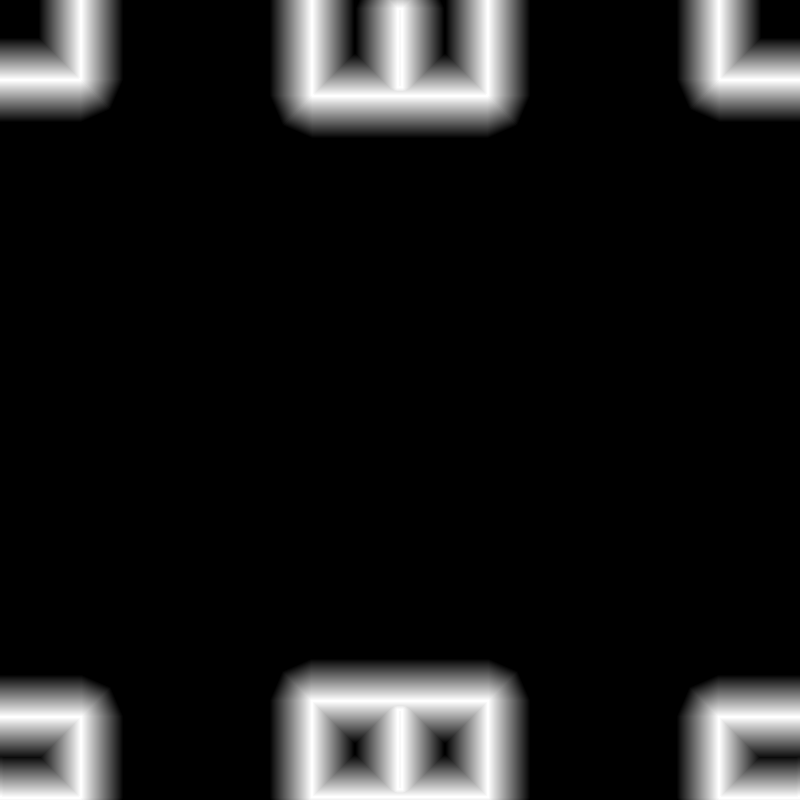
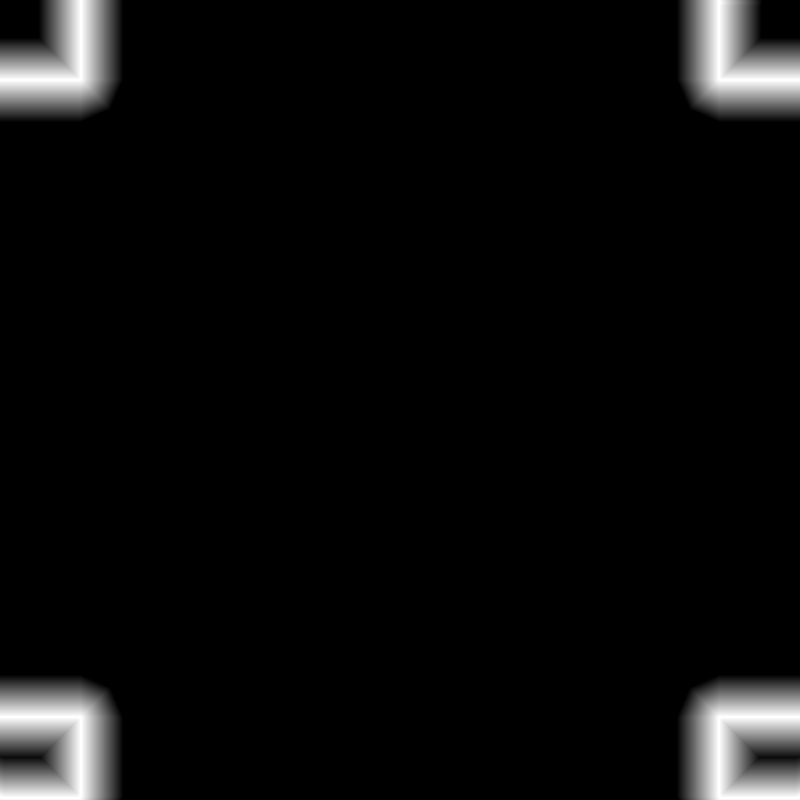
修复定位和特征点窗口显示问题

Changed region(s): [[0.3438, 0.8125, 0.6562, 1.0], [0.3438, 0.0, 0.6562, 0.1875]]

diff --git a/robocon25_sim/src/cmd_vel_model_plugin.cpp b/robocon25_sim/src/cmd_vel_model_plugin.cpp
@@ -1,0 +1,146 @@
+#include <gazebo/common/Plugin.hh>
+#include <gazebo/common/Time.hh>
+#include <gazebo/common/Event.hh>
+#include <gazebo/common/Events.hh>
+#include <gazebo/physics/Model.hh>
+#include <gazebo/physics/World.hh>
+#include <gazebo_ros/node.hpp>
+#include <geometry_msgs/msg/twist.hpp>
+#include <ignition/math/Pose3.hh>
+#include <nav_msgs/msg/odometry.hpp>
+#include <rclcpp/rclcpp.hpp>
+#include <tf2/LinearMath/Quaternion.h>
+
+#include <algorithm>
+#include <cmath>
+#include <mutex>
+
+namespace robocon25_sim
+{
+
+class CmdVelModelPlugin : public gazebo::ModelPlugin
+{
+public:
+  void Load(gazebo::physics::ModelPtr model, sdf::ElementPtr sdf) override
+  {
+    model_ = model;
+    node_ = gazebo_ros::Node::Get(sdf);
+
+    if (sdf->HasElement("cmd_timeout")) {
+      cmd_timeout_ = sdf->Get<double>("cmd_timeout");
+    }
+    if (sdf->HasElement("publish_rate")) {
+      publish_period_ = 1.0 / std::max(1.0, sdf->Get<double>("publish_rate"));
+    }
+
+    pose_ = model_->WorldPose();
+    last_update_time_ = model_->GetWorld()->SimTime();
+    last_cmd_time_ = last_update_time_;
+    last_publish_time_ = last_update_time_;
+
+    cmd_sub_ = node_->create_subscription<geometry_msgs::msg::Twist>(
+      "cmd_vel", rclcpp::QoS(10),
+      [this](geometry_msgs::msg::Twist::SharedPtr msg)
+      {
+        std::lock_guard<std::mutex> lock(mutex_);
+        cmd_ = *msg;
+        last_cmd_time_ = model_->GetWorld()->SimTime();
+      });
+
+    odom_pub_ = node_->create_publisher<nav_msgs::msg::Odometry>("odom", rclcpp::QoS(10));
+
+    update_connection_ = gazebo::event::Events::ConnectWorldUpdateBegin(
+      std::bind(&CmdVelModelPlugin::OnUpdate, this));
+  }
+
+private:
+  void OnUpdate()
+  {
+    const auto now = model_->GetWorld()->SimTime();
+    const double dt = (now - last_update_time_).Double();
+    last_update_time_ = now;
+    if (dt <= 0.0) {
+      return;
+    }
+
+    geometry_msgs::msg::Twist cmd;
+    {
+      std::lock_guard<std::mutex> lock(mutex_);
+      cmd = cmd_;
+      if ((now - last_cmd_time_).Double() > cmd_timeout_) {
+        cmd = geometry_msgs::msg::Twist();
+      }
+    }
+
+    double roll = 0.0;
+    double pitch = 0.0;
+    double yaw = pose_.Rot().Yaw();
+
+    yaw += cmd.angular.z * dt;
+    const double cos_yaw = std::cos(yaw);
+    const double sin_yaw = std::sin(yaw);
+    const double world_vx = cmd.linear.x * cos_yaw - cmd.linear.y * sin_yaw;
+    const double world_vy = cmd.linear.x * sin_yaw + cmd.linear.y * cos_yaw;
+
+    pose_.Pos().X() += world_vx * dt;
+    pose_.Pos().Y() += world_vy * dt;
+    pose_.Rot() = ignition::math::Quaterniond(roll, pitch, yaw);
+
+    model_->SetWorldPose(pose_);
+    model_->SetLinearVel(ignition::math::Vector3d(world_vx, world_vy, 0.0));
+    model_->SetAngularVel(ignition::math::Vector3d(0.0, 0.0, cmd.angular.z));
+
+    if ((now - last_publish_time_).Double() >= publish_period_) {
+      PublishOdom(now, cmd, world_vx, world_vy, yaw);
+      last_publish_time_ = now;
+    }
+  }
+
+  void PublishOdom(
+    const gazebo::common::Time & stamp,
+    const geometry_msgs::msg::Twist & cmd,
+    double world_vx,
+    double world_vy,
+    double yaw)
+  {
+    nav_msgs::msg::Odometry odom;
+    odom.header.stamp.sec = stamp.sec;
+    odom.header.stamp.nanosec = stamp.nsec;
+    odom.header.frame_id = "odom";
+    odom.child_frame_id = "base_footprint";
+    odom.pose.pose.position.x = pose_.Pos().X();
+    odom.pose.pose.position.y = pose_.Pos().Y();
+    odom.pose.pose.position.z = pose_.Pos().Z();
+
+    tf2::Quaternion q;
+    q.setRPY(0.0, 0.0, yaw);
+    odom.pose.pose.orientation.x = q.x();
+    odom.pose.pose.orientation.y = q.y();
+    odom.pose.pose.orientation.z = q.z();
+    odom.pose.pose.orientation.w = q.w();
+
+    odom.twist.twist.linear.x = cmd.linear.x;
+    odom.twist.twist.linear.y = cmd.linear.y;
+    odom.twist.twist.angular.z = cmd.angular.z;
+    odom_pub_->publish(odom);
+  }
+
+  gazebo::physics::ModelPtr model_;
+  gazebo_ros::Node::SharedPtr node_;
+  gazebo::event::ConnectionPtr update_connection_;
+  rclcpp::Subscription<geometry_msgs::msg::Twist>::SharedPtr cmd_sub_;
+  rclcpp::Publisher<nav_msgs::msg::Odometry>::SharedPtr odom_pub_;
+
+  std::mutex mutex_;
+  geometry_msgs::msg::Twist cmd_;
+  ignition::math::Pose3d pose_;
+  gazebo::common::Time last_update_time_;
+  gazebo::common::Time last_cmd_time_;
+  gazebo::common::Time last_publish_time_;
+  double cmd_timeout_ = 0.25;
+  double publish_period_ = 1.0 / 30.0;
+};
+
+GZ_REGISTER_MODEL_PLUGIN(CmdVelModelPlugin)
+
+}  // namespace robocon25_sim

diff --git a/robocon_localization/src/loc_sidelines.cpp b/robocon_localization/src/loc_sidelines.cpp
@@ -79,25 +79,52 @@ void imageCallback(const sensor_msgs::msg::Image::ConstSharedPtr& msg)
     Mat image_hsv;
     cv::cvtColor(image_raw, image_hsv, COLOR_BGR2HSV);
 
-    Mat image_white;
-    inRange(image_hsv, Scalar(0, 35, 30), Scalar(180, 255, 255), image_white);
+    Mat mask_red1, mask_red2;
+    // 场地图红色 RGB(250,74,59)，OpenCV HSV 约为 (2,195,250)。
+    inRange(image_hsv, Scalar(0, 80, 80), Scalar(12, 255, 255), mask_red1);
+    inRange(image_hsv, Scalar(170, 80, 80), Scalar(180, 255, 255), mask_red2);
+    image_red = mask_red1 | mask_red2;  // 合并两个红色范围
+
+    // 场地图浅蓝 RGB(92,169,221)，OpenCV HSV 约为 (102,149,221)。
+    // 深色紫/蓝边 Hue 接近但更暗且饱和度更高，所以用亮度和饱和度排除它。
+    inRange(image_hsv, Scalar(96, 70, 170), Scalar(110, 200, 255), image_blue);
+
+    // 场地图洋红 RGB(255,25,255)，OpenCV HSV 约为 (150,230,255)。
+    Mat image_magenta;
+    inRange(image_hsv, Scalar(130, 45, 60), Scalar(170, 255, 255), image_magenta);
+
+    Mat image_white = image_magenta;
     morphologyEx(image_white, image_white, MORPH_OPEN,
                  getStructuringElement(MORPH_RECT, Size(3, 3)));
 
-    // 添加红色检测
-    Mat mask_red1, mask_red2;
-    // HSV空间中红色的两个范围
-    inRange(image_hsv, Scalar(0, 80, 80), Scalar(12, 255, 255), mask_red1);
-    inRange(image_hsv, Scalar(165, 80, 80), Scalar(180, 255, 255), mask_red2);
-    image_red = mask_red1 | mask_red2;  // 合并两个红色范围
-
-    // 添加蓝色检测
-    Mat mask_blue;
-    inRange(image_hsv, Scalar(90, 45, 45), Scalar(125, 255, 255), mask_blue);  // HSV空间中的蓝色范围
-    image_blue = mask_blue;
-
     int center_x = image_hsv.cols / 2;
     int center_y = image_hsv.rows / 2;
+    const int self_mask_radius = std::min(image_hsv.cols, image_hsv.rows) / 8;
+    circle(image_white, Point(center_x, center_y), self_mask_radius, Scalar(0), -1);
+    circle(image_red, Point(center_x, center_y), self_mask_radius, Scalar(0), -1);
+    circle(image_blue, Point(center_x, center_y), self_mask_radius, Scalar(0), -1);
+    const double min_feature_distance = 0.25;
+    const double max_feature_distance = 4.50;
+    const double rotated_cols = image_corrected.rows;
+    const double rotated_rows = image_corrected.cols;
+    const double camera_to_map_scale = std::min(
+        static_cast<double>(image_lines_map.cols) / rotated_cols,
+        static_cast<double>(image_lines_map.rows) / rotated_rows);
+    const double projection_scale_correction = 1.00;
+    const double map_pixels_per_meter = pixelsPerMeterX() * projection_scale_correction;
+    cv::Point2f map_center(image_lines_map.cols / 2.0f, image_lines_map.rows / 2.0f);
+    std::vector<cv::Point2f> projected_white_points;
+    std::vector<cv::Point2f> projected_red_points;
+    std::vector<cv::Point2f> projected_blue_points;
+    auto addProjectedPoint = [&](std::vector<cv::Point2f>& points, double distance_m, double rad) {
+        cv::Point2f point(
+            map_center.x - distance_m * map_pixels_per_meter * std::sin(rad),
+            map_center.y + distance_m * map_pixels_per_meter * std::cos(rad));
+        if (point.x >= 0 && point.x < image_lines_map.cols &&
+            point.y >= 0 && point.y < image_lines_map.rows) {
+            points.push_back(point);
+        }
+    };
 
     // 用射线扫描彩色边缘、红色和蓝色图像
     for (int angle = 0; angle < 360; angle += 4) {
@@ -121,9 +148,11 @@ void imageCallback(const sensor_msgs::msg::Image::ConstSharedPtr& msg)
                     cv::circle(image_lines, Point(x,y), 2, cv::Scalar(255, 255, 255), -1);
 
                     // 畸变矫正
-                    double dist = distanceLookup.getDistance(length)*20;
-                    if(dist > 0 && dist < 150)
+                    double distance_m = distanceLookup.getDistance(length);
+                    if(distance_m > min_feature_distance && distance_m < max_feature_distance)
                     {
+                        addProjectedPoint(projected_white_points, distance_m, rad);
+                        double dist = distance_m * map_pixels_per_meter / camera_to_map_scale;
                         int x2 = static_cast<int>(center_x + dist * cos(rad));
                         int y2 = static_cast<int>(center_y + dist * sin(rad));
                         if (x2 >= 0 && x2 < image_corrected.cols && y2 >= 0 && y2 < image_corrected.rows) {
@@ -142,9 +171,11 @@ void imageCallback(const sensor_msgs::msg::Image::ConstSharedPtr& msg)
                     cv::line(image_show, Point(x, y - 5), Point(x, y + 5), Scalar(0, 255, 255), 1);
 
                     // 畸变矫正
-                    double dist = distanceLookup.getDistance(length)*20;
-                    if(dist > 0 && dist < 150)
+                    double distance_m = distanceLookup.getDistance(length);
+                    if(distance_m > min_feature_distance && distance_m < max_feature_distance)
                     {
+                        addProjectedPoint(projected_red_points, distance_m, rad);
+                        double dist = distance_m * map_pixels_per_meter / camera_to_map_scale;
                         int x2 = static_cast<int>(center_x + dist * cos(rad));
                         int y2 = static_cast<int>(center_y + dist * sin(rad));
                         if (x2 >= 0 && x2 < image_sideline_red.cols && y2 >= 0 && y2 < image_sideline_red.rows) {
@@ -163,9 +194,11 @@ void imageCallback(const sensor_msgs::msg::Image::ConstSharedPtr& msg)
                     cv::line(image_show, Point(x, y - 5), Point(x, y + 5), Scalar(255, 255, 0), 1);
 
                     // 畸变矫正
-                    double dist = distanceLookup.getDistance(length)*20;
-                    if(dist > 0 && dist < 150)
+                    double distance_m = distanceLookup.getDistance(length);
+                    if(distance_m > min_feature_distance && distance_m < max_feature_distance)
                     {
+                        addProjectedPoint(projected_blue_points, distance_m, rad);
+                        double dist = distance_m * map_pixels_per_meter / camera_to_map_scale;
                         int x2 = static_cast<int>(center_x + dist * cos(rad));
                         int y2 = static_cast<int>(center_y + dist * sin(rad));
                         if (x2 >= 0 && x2 < image_sideline_blue.cols && y2 >= 0 && y2 < image_sideline_blue.rows) {
@@ -185,15 +218,10 @@ void imageCallback(const sensor_msgs::msg::Image::ConstSharedPtr& msg)
     // 计算旋转后图像的中心点
     cv::Point2f img_center(rotated_image.cols/2.0f, rotated_image.rows/2.0f);
     
-    const float scale_factor = std::min(
-        static_cast<float>(image_lines_map.cols) / rotated_image.cols,
-        static_cast<float>(image_lines_map.rows) / rotated_image.rows);
-    cv::Point2f map_center(image_lines_map.cols / 2.0f, image_lines_map.rows / 2.0f);
-
-    // 从旋转后的图像中提取彩色边缘、红色和蓝色点
-    std::vector<cv::Point2f> white_points;
-    std::vector<cv::Point2f> red_points;
-    std::vector<cv::Point2f> blue_points;
+    // 从原始射线检测结果直接投影到地图坐标，避免中间图像尺寸裁剪远距离特征。
+    std::vector<cv::Point2f> white_points = projected_white_points;
+    std::vector<cv::Point2f> red_points = projected_red_points;
+    std::vector<cv::Point2f> blue_points = projected_blue_points;
 
     // 用于计算平均位置的变量
     cv::Point2f red_avg(0.0f, 0.0f);
@@ -203,29 +231,6 @@ void imageCallback(const sensor_msgs::msg::Image::ConstSharedPtr& msg)
     cv::Mat rotated_red, rotated_blue;
     cv::rotate(image_sideline_red, rotated_red, cv::ROTATE_90_CLOCKWISE);
     cv::rotate(image_sideline_blue, rotated_blue, cv::ROTATE_90_CLOCKWISE);
-
-    for(int y = 0; y < rotated_image.rows; y++) {
-        for(int x = 0; x < rotated_image.cols; x++) {
-            // 处理白点
-            if(rotated_image.at<uchar>(y,x) == 255) {
-                float scaled_x = map_center.x + (x - img_center.x) * scale_factor;
-                float scaled_y = map_center.y + (y - img_center.y) * scale_factor;
-                white_points.push_back(cv::Point2f(scaled_x, scaled_y));
-            }
-            // 处理红点
-            if(rotated_red.at<uchar>(y,x) == 255) {
-                float scaled_x = map_center.x + (x - img_center.x) * scale_factor;
-                float scaled_y = map_center.y + (y - img_center.y) * scale_factor;
-                red_points.push_back(cv::Point2f(scaled_x, scaled_y));
-            }
-            // 处理蓝点
-            if(rotated_blue.at<uchar>(y,x) == 255) {
-                float scaled_x = map_center.x + (x - img_center.x) * scale_factor;
-                float scaled_y = map_center.y + (y - img_center.y) * scale_factor;
-                blue_points.push_back(cv::Point2f(scaled_x, scaled_y));
-            }
-        }
-    }
 
     static int debug_frame_count = 0;
     if (++debug_frame_count % 30 == 0) {
@@ -276,7 +281,7 @@ void imageCallback(const sensor_msgs::msg::Image::ConstSharedPtr& msg)
 
     float rad = (counter_yaw) * CV_PI / 180.0;
     
-    if (has_sidelines) {
+    if (has_sidelines && !odom_ready) {
         // 初始化范围统计变量
         float min_x = std::numeric_limits<float>::max();
         float max_x = std::numeric_limits<float>::lowest();
@@ -447,7 +452,7 @@ void imageCallback(const sensor_msgs::msg::Image::ConstSharedPtr& msg)
         counter_x / pixelsPerMeterX(),
         -counter_y / pixelsPerMeterY(),
         -counter_yaw);
-    cv::putText(monitor_image, coordinates, cv::Point(200, 30), 
+    cv::putText(monitor_image, coordinates, cv::Point(0, 30), 
                 cv::FONT_HERSHEY_SIMPLEX, 0.8, cv::Scalar(0, 0, 0), 2);
     
     // 绘制机器人图标

diff --git a/robocon_localization/src/utility/lines_map.cpp b/robocon_localization/src/utility/lines_map.cpp
@@ -35,8 +35,13 @@ cv::Mat LinesMap::createColorMask() const {
     cv::Mat hsv;
     cv::cvtColor(lines_image, hsv, cv::COLOR_BGR2HSV);
 
-    cv::Mat colorMask;
-    cv::inRange(hsv, cv::Scalar(0, 35, 30), cv::Scalar(180, 255, 255), colorMask);
+    cv::Mat redMask1, redMask2, blueMask, magentaMask;
+    cv::inRange(hsv, cv::Scalar(0, 80, 80), cv::Scalar(12, 255, 255), redMask1);
+    cv::inRange(hsv, cv::Scalar(170, 80, 80), cv::Scalar(180, 255, 255), redMask2);
+    cv::inRange(hsv, cv::Scalar(96, 70, 170), cv::Scalar(110, 200, 255), blueMask);
+    cv::inRange(hsv, cv::Scalar(130, 45, 60), cv::Scalar(170, 255, 255), magentaMask);
+
+    cv::Mat colorMask = magentaMask;
 
     cv::Mat kernel = cv::getStructuringElement(cv::MORPH_RECT, cv::Size(3, 3));
     cv::morphologyEx(colorMask, colorMask, cv::MORPH_OPEN, kernel);
@@ -49,7 +54,7 @@ cv::Mat LinesMap::createRedMask() const {
 
     cv::Mat redMask1, redMask2;
     cv::inRange(hsv, cv::Scalar(0, 80, 80), cv::Scalar(12, 255, 255), redMask1);
-    cv::inRange(hsv, cv::Scalar(165, 80, 80), cv::Scalar(180, 255, 255), redMask2);
+    cv::inRange(hsv, cv::Scalar(170, 80, 80), cv::Scalar(180, 255, 255), redMask2);
     return redMask1 | redMask2;
 }
 
@@ -58,7 +63,7 @@ cv::Mat LinesMap::createBlueMask() const {
     cv::cvtColor(lines_image, hsv, cv::COLOR_BGR2HSV);
 
     cv::Mat blueMask;
-    cv::inRange(hsv, cv::Scalar(90, 45, 45), cv::Scalar(125, 255, 255), blueMask);
+    cv::inRange(hsv, cv::Scalar(96, 70, 170), cv::Scalar(110, 200, 255), blueMask);
     return blueMask;
 }
 

diff --git a/robocon_localization/src/utility/distance_lookup.cpp b/robocon_localization/src/utility/distance_lookup.cpp
@@ -18,8 +18,17 @@ void DistanceLookup::init(const std::string& filename)
 }
 
 double DistanceLookup::getDistance(int pixel){
-    if (pixel < 0 || pixel > maxPixel_) {
+    if (pixel < 0 || data_.empty()) {
         return -1;
+    }
+    if (pixel > maxPixel_) {
+        if (data_.size() < 2) {
+            return data_.back().distance;
+        }
+
+        const auto& p0 = data_[data_.size() - 2];
+        const auto& p1 = data_[data_.size() - 1];
+        return interpolate(p0.pixel, p0.distance, p1.pixel, p1.distance, pixel);
     }
     return lookupArray_[pixel];
 }

diff --git a/robocon_localization/src/relocalization.cpp b/robocon_localization/src/relocalization.cpp
@@ -73,7 +73,7 @@ void imageCallback(const sensor_msgs::msg::Image::ConstSharedPtr& msg)
 
     // 添加蓝色检测
     Mat mask_blue;
-    inRange(image_hsv, Scalar(90, 45, 45), Scalar(125, 255, 255), mask_blue);  // HSV空间中的蓝色范围
+    inRange(image_hsv, Scalar(96, 70, 170), Scalar(110, 200, 255), mask_blue);  // 场地图亮蓝色范围
     image_blue = mask_blue;
 
     int center_x = image_hsv.cols / 2;